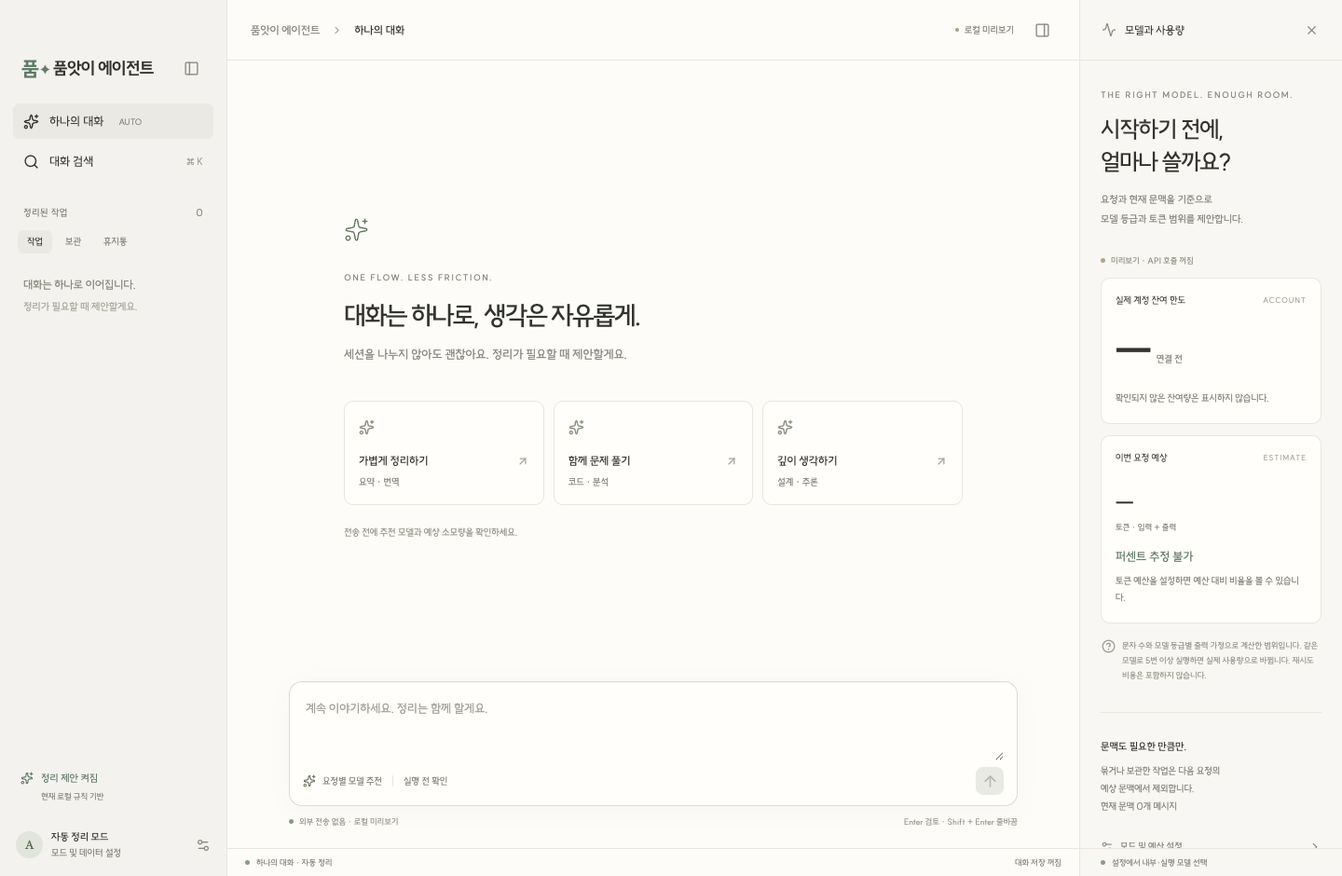
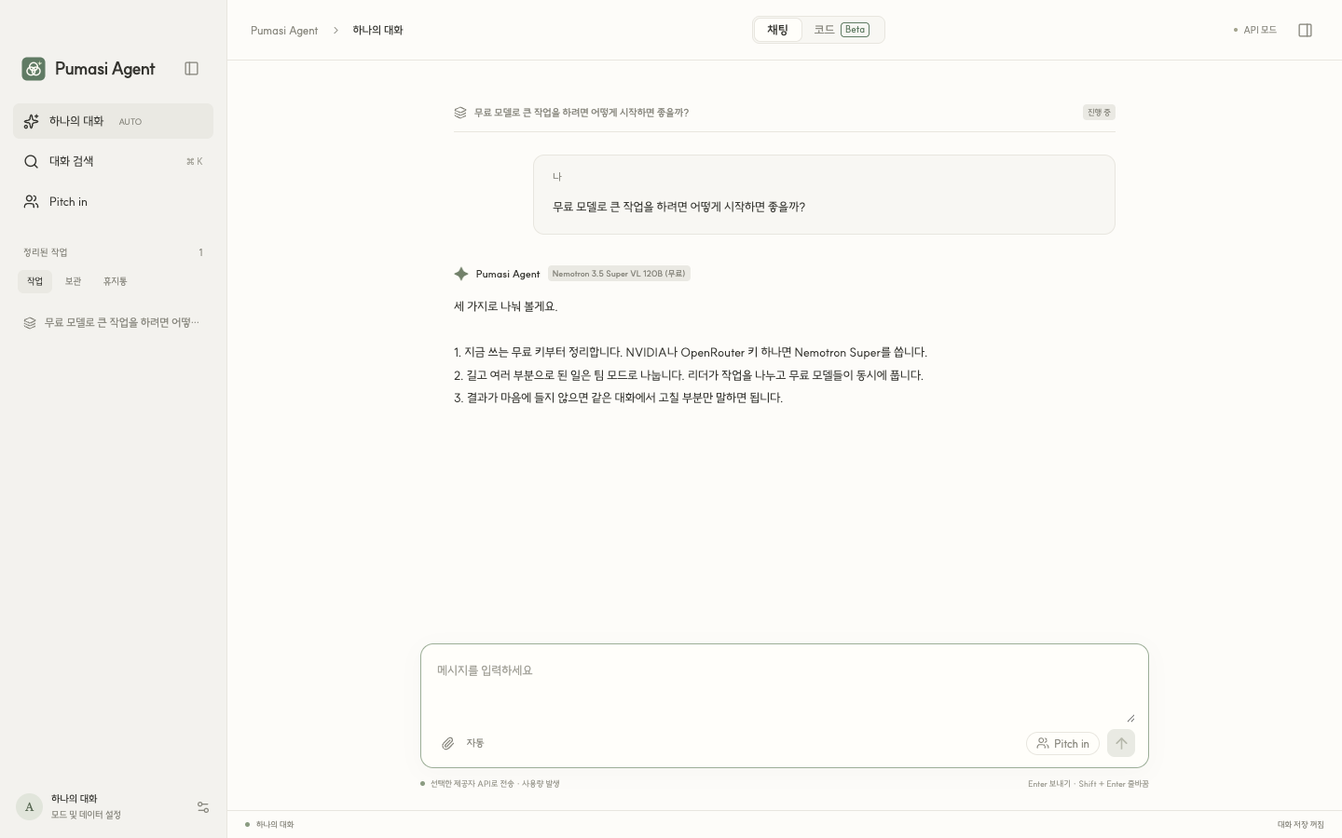
Use the English names everywhere; one download link through yatko
Pumasi Agent and Pitch in replace the Korean names in the app, site, READMEs
and docs (sentences stay Korean). The sidebar mark is now the app icon instead
of the Korean letter, and the social preview and README screenshots are
redrawn from the current app.

The download button goes through yatko.app, which serves the latest GitHub
release; public/download.js picks this computer's installer (Safari cannot
tell Apple Silicon from Intel, so a Mac it cannot ask defaults to Apple
Silicon). Every version stays one click away on GitHub releases.

diff --git a/src/main.tsx b/src/main.tsx
@@ -452,7 +452,7 @@ function App() {
         }
         if (e.stage === "pumasi") {
           setNotice(
-            t("팀 모드 · 품앗이 {done}/{total} 완료 · 돕는 중 {working} · 기다리는 자리 {open}", e),
+            t("팀 모드 · Pitch in {done}/{total} 완료 · 돕는 중 {working} · 기다리는 자리 {open}", e),
           );
           return;
         }
@@ -506,7 +506,7 @@ function App() {
               taskCount: team.tasks.length,
               rounds: team.rounds,
               pumasi: team.pumasiTasks
-                ? t(" · 품앗이로 받은 작업 {count}개", { count: team.pumasiTasks })
+                ? t(" · Pitch in으로 받은 작업 {count}개", { count: team.pumasiTasks })
                 : "",
               approved:
                 (team.approved ? t(" · 총괄 모델 승인") : "") +
@@ -718,9 +718,16 @@ function App() {
       <aside className="sidebar" aria-label={t("사이드바")}>
         <div className="window-space" />
         <div className="brand">
-          <span className="brand-mark">
-            품<span>✦</span>
-          </span>
+          {/* The app icon: three overlapping circles and a spark. */}
+          <svg className="brand-mark" viewBox="0 0 1024 1024" aria-hidden="true">
+            <rect x="18" y="18" width="988" height="988" rx="222" fill="currentColor" />
+            <g fill="none" stroke="#fffdf6" strokeWidth="58">
+              <circle cx="404" cy="604" r="168" />
+              <circle cx="620" cy="604" r="168" />
+              <circle cx="512" cy="418" r="168" />
+            </g>
+            <path d="M776 178l25 70 70 25-70 25-25 70-25-70-70-25 70-25z" fill="#e2ebcf" />
+          </svg>
           <strong>{appName()}</strong>
           <button
             className="icon-button"
@@ -766,11 +773,11 @@ function App() {
           </button>
           <button
             className="nav-item"
-            aria-label={t("함께하기")}
+            aria-label={t("Pitch in")}
             onClick={() => setDialog("pumasi")}
           >
             <Users size={17} />
-            <span>{t("함께하기")}</span>
+            <span>{t("Pitch in")}</span>
           </button>
         </nav>
         {appMode === "chat" && (
@@ -1055,7 +1062,7 @@ function App() {
                 title={
                   window.auroraAI?.pumasi
                     ? t("켜면 팀 모드로 실행하고, 리더가 나눈 작업을 다른 사람 앱이 먼저 맡습니다.")
-                    : t("함께하기는 설치 앱에서 쓸 수 있습니다.")
+                    : t("Pitch in은 설치 앱에서 쓸 수 있습니다.")
                 }
                 onClick={() =>
                   setRouting((r) =>
@@ -1066,7 +1073,7 @@ function App() {
                 }
               >
                 <Users size={14} />
-                {t("함께하기")}
+                {t("Pitch in")}
               </button>
               <button
                 className="send-button"
@@ -1197,7 +1204,7 @@ function App() {
                 {dialog === "search"
                     ? t("대화 검색")
                     : dialog === "pumasi"
-                      ? t("함께하기")
+                      ? t("Pitch in")
                       : t("워크스페이스 설정")}
               </h2>
               <button
@@ -1400,14 +1407,14 @@ function App() {
                   </label>
                   <label className="setting-row">
                     <span>
-                      <strong>{t("품앗이에 맡기기")}</strong>
+                      <strong>{t("Pitch in에 맡기기")}</strong>
                       <small>
                         {t("팀 모드의 작업을 다른 사람의 앱이 그 사람의 키로 처리합니다. 5분 안에 아무도 돕지 않은 작업은 내 작업 모델이 합니다. 작업 글은 모르는 사람의 AI가 읽으니 개인 정보는 넣지 마세요.")}
                       </small>
                     </span>
                     <input
                       type="checkbox"
-                      aria-label={t("품앗이에 맡기기")}
+                      aria-label={t("Pitch in에 맡기기")}
                       checked={routing.pumasi}
                       disabled={!routing.team}
                       onChange={(e) =>

diff --git a/src/pumasi.tsx b/src/pumasi.tsx
@@ -57,7 +57,7 @@ export function PumasiPanel() {
   if (!bridge) {
     return (
       <p className="small-copy">
-        {t("품앗이는 데스크톱 앱에서만 쓸 수 있습니다.")}
+        {t("Pitch in은 데스크톱 앱에서만 쓸 수 있습니다.")}
       </p>
     );
   }
@@ -138,10 +138,10 @@ export function PumasiPanel() {
   };
 
   return (
-    <section className="secret-settings pumasi-panel" aria-label={t("품앗이")}>
+    <section className="secret-settings pumasi-panel" aria-label={t("Pitch in")}>
       <p className="small-copy">
         {t(
-          "함께하기를 누르면 내 앱이 다른 사람 팀의 작업 모델 한 명이 되어, 내 키와 토큰으로 작업 하나를 처리하고 결과만 넘깁니다. 작업 글과 결과는 암호화되어 이 화면에도 보이지 않습니다.",
+          "Pitch in을 누르면 내 앱이 다른 사람 팀의 작업 모델 한 명이 되어, 내 키와 토큰으로 작업 하나를 처리하고 결과만 넘깁니다. 작업 글과 결과는 암호화되어 이 화면에도 보이지 않습니다.",
         )}
       </p>
 
@@ -188,7 +188,7 @@ export function PumasiPanel() {
                     disabled={helping}
                     onClick={() => handleHelp(slot.slotId)}
                   >
-                    {t("함께하기")}
+                    {t("Pitch in")}
                   </button>
                 </div>
               </div>
@@ -273,7 +273,7 @@ export function PumasiPanel() {
 
       <div className="secret-row">
         <label className="secret-head" htmlFor="pumasi-server">
-          <strong>{t("품앗이 서버")}</strong>
+          <strong>{t("Pitch in 서버")}</strong>
         </label>
         <div className="secret-form">
           <input

diff --git a/public/download.js b/public/download.js
@@ -1,0 +1,21 @@
+// One download button: pick this computer's installer and get it through yatko.app, which always
+// serves the latest release from GitHub. Without this script the button opens yatko's own page,
+// which detects the platform itself.
+(async () => {
+  const base = "https://yatko.app/dl/uiwwsw/pumasi-agent";
+  const ua = navigator.userAgent;
+  let href = null;
+  if (/Windows/.test(ua)) href = `${base}?platform=windows&arch=amd64`;
+  else if (/Macintosh|Mac OS X/.test(ua) && !/iPhone|iPad/.test(ua)) {
+    // Safari reports "Intel" on every Mac, so ask the browser when it can tell; otherwise assume
+    // Apple Silicon, which nearly every Mac sold since 2021 has.
+    let arch = "arm64";
+    try {
+      const info = await navigator.userAgentData?.getHighEntropyValues?.(["architecture"]);
+      if (info?.architecture === "x86") arch = "amd64";
+    } catch {}
+    href = `${base}?platform=macos&arch=${arch}&prefer=dmg`;
+  }
+  if (!href) return;
+  for (const a of document.querySelectorAll("a[data-download]")) a.href = href;
+})();

diff --git a/src/code-view.tsx b/src/code-view.tsx
@@ -507,10 +507,10 @@ export function CodeWorkspace() {
                   type="button"
                   className="together-toggle"
                   disabled
-                  title={t("코드 모드에서는 아직 함께하기를 쓸 수 없습니다.")}
+                  title={t("코드 모드에서는 아직 Pitch in을 쓸 수 없습니다.")}
                 >
                   <Users size={14} />
-                  {t("함께하기")}
+                  {t("Pitch in")}
                 </button>
                 {busy ? (
                   <button className="send-button" aria-label={t("중지")} onClick={() => void code.stop()}>

diff --git a/index.html b/index.html
@@ -4,7 +4,7 @@
 <meta charset="UTF-8" />
 <meta name="viewport" content="width=device-width, initial-scale=1" />
 <meta http-equiv="Content-Security-Policy" content="default-src 'self'; script-src 'self'; style-src 'self' 'unsafe-inline'; img-src 'self' data:; connect-src 'none'; object-src 'none'; base-uri 'none'; form-action 'none'" />
-<title>품앗이 에이전트</title>
+<title>Pumasi Agent</title>
 </head>
 <body><div id="root"></div><script type="module" src="/src/main.tsx"></script>
 </body>

diff --git a/src/i18n.ts b/src/i18n.ts
@@ -46,7 +46,7 @@ export function t(ko: string, vars?: Record<string, string | number>) {
     ? s.replace(/\{(\w+)\}/g, (m, k) => (k in vars ? String(vars[k]) : m))
     : s;
 }
-export const appName = () => (lang === "en" ? "Pumasi Agent" : "품앗이 에이전트");
+export const appName = () => (lang === "en" ? "Pumasi Agent" : "Pumasi Agent");
 
 /** Model names from the catalog in the current language: "(무료)" -> "(free)" and so on. */
 export function modelName(name: string) {

diff --git a/src/style.css b/src/style.css
@@ -114,18 +114,9 @@ button:hover {
   letter-spacing: -0.6px;
 }
 .brand-mark {
-  position: relative;
-  font-size: 22px;
-  font-weight: 700;
-  line-height: 28px;
-  width: 24px;
-  color: var(--accent);
-}
-.brand-mark span {
-  position: absolute;
-  font-size: 13px;
-  right: -6px;
-  top: 0;
+  width: 26px;
+  height: 26px;
+  flex-shrink: 0;
   color: var(--accent);
 }
 .brand > .icon-button {

diff --git a/README.ko.md b/README.ko.md
@@ -2,7 +2,7 @@
 
 <img src="https://raw.githubusercontent.com/uiwwsw/pumasi-agent/main/build/icon.svg" alt="Pumasi Agent" width="96" height="96">
 
-<h1>품앗이 에이전트 · Pumasi Agent</h1>
+<h1>Pumasi Agent</h1>
 
 <p><b>무료 AI가 팀으로 일합니다.</b><br>리더 모델이 일을 나누고 무료 모델이 처리합니다. 손이 더 필요하면 다른 사용자가 거들어 줍니다.</p>
 
@@ -29,7 +29,7 @@
 
 - **채팅과 코드, 두 모드:** 채팅은 질문과 답입니다. 코드는 Claude Code나 Codex처럼 씁니다. 프로젝트 폴더를 열고 할 일을 적으면 에이전트가 폴더를 둘러보고 파일을 직접 읽고 찾은 뒤, 고칠 내용을 diff로 보여 주고 명령을 실행하기 전에 묻습니다. 승인하기 전에는 아무것도 저장하거나 실행하지 않습니다. 코드 모드는 베타입니다.
 - **일은 나누고, 돈은 아낍니다 (팀 모드):** 요청 하나를 작업 최대 6개로 나눕니다. 리더 모델이 계획하고 승인하며, 작업과 합치기는 무료 모델이 합니다. 기본 리더는 측정 성적이 가장 높은 무료 모델입니다. 한도에 걸리면 다음 순위가 이어받고, 순서는 설정에서 바꿀 수 있습니다. 리더가 결과를 확신하지 못할 때만 2등이 한 번 더 보고, 그 밖에는 호출이 늘지 않습니다. Claude Opus 같은 유료 모델을 리더로 고르면 비싼 토큰은 계획과 승인에만 씁니다.
-- **문제를 나눕니다 (함께하기):** 내 팀의 작업을 다른 사용자에게 맡길 수 있습니다. 그 사람의 앱이 작업 하나를 자기 무료 키로 처리하고 결과만 돌려줍니다. 작업 글과 결과는 두 기기 사이에서만 풀리게 암호화되어, 서버는 암호문만 나르고 돕는 사람의 화면에는 토큰 수만 보입니다. 누구의 키도 기기를 떠나지 않습니다. 도우면 점수가 쌓이고, 맡기면 점수를 씁니다. 지금은 초대 코드를 받은 사람만 가입할 수 있습니다.
+- **문제를 나눕니다 (Pitch in):** 내 팀의 작업을 다른 사용자에게 맡길 수 있습니다. 그 사람의 앱이 작업 하나를 자기 무료 키로 처리하고 결과만 돌려줍니다. 작업 글과 결과는 두 기기 사이에서만 풀리게 암호화되어, 서버는 암호문만 나르고 돕는 사람의 화면에는 토큰 수만 보입니다. 누구의 키도 기기를 떠나지 않습니다. 도우면 점수가 쌓이고, 맡기면 점수를 씁니다. 지금은 초대 코드를 받은 사람만 가입할 수 있습니다.
 - **무료 모델도 충분히 셉니다:** 여기서 쓸 수 있는 무료 모델 Nemotron 3.5 Super가 프로그램이 채점하는 시험 세 개에서 30/30, 28/30, 23/25를 받았습니다. ChatGPT 무료는 23, 24, 13.4였습니다. 문항·답안·채점기는 [측정 기록](bench/README.md)에 있습니다.
 - **키만 넣고 질문하면 됩니다:** 설정에 NVIDIA·OpenRouter·Groq·Google(무료)과 OpenAI·Anthropic(유료) 키를 한 번 넣어 두세요. Enter를 누르면 자동이 답합니다. 쓸 수 있는 무료 모델 중 성적이 높은 것부터 쓰고, 한도에 걸리거나 멈추면 다음 모델로 넘어가며, 무료가 모두 막혔을 때만 유료 키를 씁니다. 모델을 고르거나 확인하는 단계는 없습니다. 원하면 설정 → 고급에서 모델을 정할 수 있습니다.
 - **키는 내 기기에만:** 설정에서 넣은 API 키는 OS 키체인으로 암호화해 저장하고, 다시 화면에 보여 주지 않으며, 모델 답과 오류 메시지에서도 가립니다.
@@ -40,19 +40,19 @@
 - 한국어·영어 화면, macOS(서명·공증)·Windows 설치 파일, 자동 업데이트
 - 업데이트 채널: 안정·베타·알파 (도움말 → 업데이트 채널)
 
-## 함께하기의 생각
+## Pitch in의 생각
 
 토큰을 나눠 쓰자는 프로젝트는 대부분 키나 크레딧을 한곳에 모아 나눠 줍니다. 모아 둔 곳을 운영하는 쪽이 모든 요청의 한가운데에 있게 되고, 함께 쓰는 키는 오남용되기 쉽습니다.
 
-함께하기는 거꾸로 갑니다. 토큰 대신 문제를 공유합니다. 돕고 싶은 사람이 그 문제를 가져가 자기 도구로 풀고, 결과를 돌려줍니다. 키와 크레딧은 주인 손을 떠나지 않고, 가운데에서 오남용될 곳도 없습니다.
+Pitch in은 거꾸로 갑니다. 토큰 대신 문제를 공유합니다. 돕고 싶은 사람이 그 문제를 가져가 자기 도구로 풀고, 결과를 돌려줍니다. 키와 크레딧은 주인 손을 떠나지 않고, 가운데에서 오남용될 곳도 없습니다.
 
 지금 앱에는 첫 조각만 있습니다. 다른 사용자의 앱이 내 팀의 작업 하나를 자기 무료 키로 처리하고, 작업과 결과는 두 기기 사이에서만 풀립니다. 사람이 리더가 나눠 준 역할을 맡아 원하는 답이 나올 때까지 다듬고 넘기는 모습은 아직 아이디어이고 구현하지 않았습니다. 함께 만들 기여자를 모읍니다. 지금 만든 부분과 남은 문제는 [docs/pitch-in.md](docs/pitch-in.md)(영문)에 정리했습니다. 하나를 골라 이슈로 이야기를 걸어 주세요.
 
 ## 한계
 
-- 코드 모드는 베타입니다. 한 번에 폴더 하나, 명령 하나는 2분까지이고, 코드 모드에서는 아직 함께하기를 쓸 수 없습니다.
+- 코드 모드는 베타입니다. 한 번에 폴더 하나, 명령 하나는 2분까지이고, 코드 모드에서는 아직 Pitch in을 쓸 수 없습니다.
 - 리더 순위는 지금 추론 시험 하나로 정했습니다. 코드와 글쓰기 순위는 따로 측정한 뒤 나눕니다.
-- 함께하기는 미리보기 기간 동안 초대제입니다.
+- Pitch in은 미리보기 기간 동안 초대제입니다.
 
 ## 할 일
 
@@ -61,20 +61,14 @@
 1. **토큰을 낭비하지 않는 팀:** 어려운 6문제에서 팀은 3개를 맞혀 Nemotron Super 혼자(0개)보다 낫지만 토큰을 약 50배 씁니다. 나눠도 나아지지 않을 요청은 바로 답하고, 결과를 바꾸지 못하는 검토 회차를 줄이고, 작업 모델이 생각하는 길이에 상한을 둡니다. 같거나 적은 토큰으로 Super 혼자보다 나을 때만 안정 버전에 넣습니다.
 2. **스트리밍 응답:** 채팅과 코드 모드 모두 끝났습니다.
 3. **Claude Code·Codex에 더 가까운 코드 모드:** 저장한 변경 되돌리기, git 변경 사항 보기, 한 요청의 파일 변경 모두 저장이 들어갔습니다. 다음은 모델의 정식 도구 호출입니다. 무료 모델에서 지금 방식보다 나을 때만 바꿉니다.
-4. **사람이 함께하는 함께하기:** 사람이 리더가 나눈 역할을 맡아 원하는 답이 나올 때까지 다듬고 넘깁니다. 엉터리 결과 신고·차단과 공개 가입도 함께.
-5. **코드 모드 함께하기.** 텍스트 파일 첨부는 들어갔습니다. 묶음 투표(여러 모델이 답하고 투표)는 없앴습니다. Nemotron Super 혼자보다 점수가 높았던 적이 없고 토큰은 몇 배 들었습니다.
+4. **사람이 함께하는 Pitch in:** 사람이 리더가 나눈 역할을 맡아 원하는 답이 나올 때까지 다듬고 넘깁니다. 엉터리 결과 신고·차단과 공개 가입도 함께.
+5. **코드 모드 Pitch in.** 텍스트 파일 첨부는 들어갔습니다. 묶음 투표(여러 모델이 답하고 투표)는 없앴습니다. Nemotron Super 혼자보다 점수가 높았던 적이 없고 토큰은 몇 배 들었습니다.
 
 ## 쓰기
 
-**웹:** [pumasi-agent.vercel.app/app](https://pumasi-agent.vercel.app/app/)에서 바로 씁니다. 채팅과 팀 모드를 내 키로 씁니다. 키는 그 브라우저에만 저장되고, 질문은 브라우저에서 각 회사로 바로 갑니다. 우리 서버는 거치지 않습니다. NVIDIA는 브라우저 호출을 막아서, 웹에서는 Nemotron 모델을 OpenRouter 키로 씁니다. 코드 모드와 함께하기는 설치 앱에서 씁니다.
+**웹:** [pumasi-agent.vercel.app/app](https://pumasi-agent.vercel.app/app/)에서 바로 씁니다. 채팅과 팀 모드를 내 키로 씁니다. 키는 그 브라우저에만 저장되고, 질문은 브라우저에서 각 회사로 바로 갑니다. 우리 서버는 거치지 않습니다. NVIDIA는 브라우저 호출을 막아서, 웹에서는 Nemotron 모델을 OpenRouter 키로 씁니다. 코드 모드와 Pitch in은 설치 앱에서 씁니다.
 
-**설치 앱:**
-
-| 운영체제 | 설치 파일 |
-| --- | --- |
-| macOS · Apple Silicon | [DMG](https://github.com/uiwwsw/pumasi-agent/releases/download/v0.1.10/Pumasi-Agent-0.1.10-mac-arm64.dmg) |
-| macOS · Intel | [DMG](https://github.com/uiwwsw/pumasi-agent/releases/download/v0.1.10/Pumasi-Agent-0.1.10-mac-x64.dmg) |
-| Windows · x64 | [EXE](https://github.com/uiwwsw/pumasi-agent/releases/download/v0.1.10/Pumasi-Agent-0.1.10-windows-x64.exe) |
+**설치 앱 (macOS, Windows):** [yatko.app/uiwwsw/pumasi-agent](https://yatko.app/uiwwsw/pumasi-agent)에서 내 컴퓨터에 맞는 설치 파일을 최신 버전으로 받습니다. 모든 버전과 파일은 [릴리스 페이지](https://github.com/uiwwsw/pumasi-agent/releases)에 있습니다.
 
 새 기능을 먼저 받는 베타 버전은 [릴리스 페이지](https://github.com/uiwwsw/pumasi-agent/releases)에 있습니다. 설치한 앱에서는 도움말 → 업데이트 채널에서 바꿉니다.
 

diff --git a/CHANGELOG.md b/CHANGELOG.md
@@ -2,17 +2,17 @@
 
 ## Unreleased
 
-- **웹에서도 씁니다:** pumasi-agent.vercel.app/app 에서 채팅과 팀 모드를 실제로 씁니다. 그동안 있던 "웹 데모"(AI를 부르지 않는 미리보기)는 없앴습니다. 키는 그 브라우저에만 저장되고, 질문은 브라우저에서 각 AI 회사로 바로 갑니다. 우리 서버는 거치지 않습니다. NVIDIA는 브라우저 호출을 막아서 웹에서는 Nemotron을 OpenRouter 키로 씁니다. 코드 모드와 함께하기는 설치 앱에서만 됩니다.
+- **웹에서도 씁니다:** pumasi-agent.vercel.app/app 에서 채팅과 팀 모드를 실제로 씁니다. 그동안 있던 "웹 데모"(AI를 부르지 않는 미리보기)는 없앴습니다. 키는 그 브라우저에만 저장되고, 질문은 브라우저에서 각 AI 회사로 바로 갑니다. 우리 서버는 거치지 않습니다. NVIDIA는 브라우저 호출을 막아서 웹에서는 Nemotron을 OpenRouter 키로 씁니다. 코드 모드와 Pitch in은 설치 앱에서만 됩니다.
 - **파일 첨부:** 입력창의 클립 버튼이나 끌어다 놓기로 텍스트 파일(코드, 문서, 로그, CSV 등)을 붙입니다. 모델은 내용을 읽고, 대화에는 파일 이름만 보입니다. 다음 질문에도 그 내용이 문맥으로 이어집니다. 파일 하나는 20만 자, 한 질문에 모두 합쳐 40만 자까지이고, 이미지·PDF 같은 바이너리 파일은 붙지 않습니다.
 - **묶음 투표를 없앴습니다:** 같은 질문을 여러 모델에 묻고 투표하는 방식은 측정에서 Nemotron Super 혼자보다 점수가 높았던 적이 없고 토큰은 몇 배 들었습니다. 설정에서도 빠졌습니다. 측정한 모델 점수는 자동 모델과 리더 순위에 계속 씁니다.
 - **코드 모드:** 에이전트의 답이 쓰이는 대로 보입니다. 저장한 파일 변경마다 "되돌리기"가 있습니다. 저장한 뒤 파일이 또 바뀌었으면 되돌리지 않습니다. 위쪽 "변경 사항"에서 git이 보는 바뀐 파일과 diff를 봅니다. 변경 카드의 "이번 요청 모두 저장"을 누르면 그 요청의 나머지 파일 변경은 묻지 않고 저장합니다. 명령은 계속 묻습니다.
 - **답이 쓰이는 대로 보입니다:** 채팅의 일반 답이 스트리밍으로 옵니다. OpenAI, Anthropic, 무료 제공자(OpenAI 호환), Gemini, Ollama 모두 해당합니다. 보내면 질문이 바로 대화로 옮겨지고 입력창이 비며, 실패하면 질문이 입력창으로 돌아옵니다. 팀 모드와 묶음 투표는 아직 다 끝난 뒤에 보입니다.
-- **키만 넣고 질문하면 됩니다:** Enter를 누르면 확인 창 없이 바로 답합니다. 기본 모델은 "자동"입니다. 무료 모델부터 쓰고, 무료가 모두 막히면 설정에 넣어 둔 유료 키(Claude Sonnet, GPT)를 씁니다. 함께하기로 남을 도울 때와 팀 리더는 유료 키를 쓰지 않습니다.
+- **키만 넣고 질문하면 됩니다:** Enter를 누르면 확인 창 없이 바로 답합니다. 기본 모델은 "자동"입니다. 무료 모델부터 쓰고, 무료가 모두 막히면 설정에 넣어 둔 유료 키(Claude Sonnet, GPT)를 씁니다. Pitch in으로 남을 도울 때와 팀 리더는 유료 키를 쓰지 않습니다.
 - 설정은 API 키가 맨 위에 옵니다. 모델과 팀 설정은 "고급"으로 접었고, "실제 API 사용" 스위치와 OpenAI·Claude 기본값 버튼, 내부 분석 모델은 없앴습니다. 설치한 앱은 늘 실제 모델을 부르고, 웹 데모는 부르지 않습니다.
 - 키워드로 주제가 바뀌었다고 짐작해 정리를 제안하던 기능을 없앴습니다. "자동 정리 모드"는 "하나의 대화", "레거시"는 "세션 모드"로 부릅니다.
 - 답 아래 붙던 토큰 줄을 없애고, 답에 실제로 답한 모델 이름을 표시합니다. 토큰은 사용량 패널에서 봅니다.
 - 보내기 전에 보여 주던 예상 토큰, 예산 대비 비율, 키워드로 고른 "추천 등급"을 없앴습니다. 짐작한 숫자였기 때문입니다. 계획용 토큰 예산 설정과 이 기기에 남기던 사용 기록도 함께 없앴습니다. 답을 받으면 제공자가 알려 준 실제 토큰만 보여 줍니다.
-- README와 사이트에 함께하기의 생각을 적었습니다. 토큰을 한곳에 모으는 대신 문제를 공유하고, 돕는 사람이 스스로 푼 결과를 돌려받는 구조입니다. 사람이 역할을 맡는 부분은 아직 구현하지 않았고 기여자를 모읍니다.
+- README와 사이트에 Pitch in의 생각을 적었습니다. 토큰을 한곳에 모으는 대신 문제를 공유하고, 돕는 사람이 스스로 푼 결과를 돌려받는 구조입니다. 사람이 역할을 맡는 부분은 아직 구현하지 않았고 기여자를 모읍니다.
 
 ## 0.2.0-beta.2 (베타)
 

diff --git a/docs/components.md b/docs/components.md
@@ -4,7 +4,7 @@ Pumasi Agent 저장소에 들어 있는 파일, 의존하는 라이브러리와 
 
 먼저 범위를 분명히 해 둔다.
 
-- 품앗이 에이전트는 새로운 라우팅 알고리즘을 만들지 않았다. 앱 안의 "추천"은 분석용 모델에게 어떤 모델이 좋을지 물어보는 프롬프트 한 번이고, 실행 모델은 사람이 고른다.
+- Pumasi Agent는 새로운 라우팅 알고리즘을 만들지 않았다. 앱 안의 "추천"은 분석용 모델에게 어떤 모델이 좋을지 물어보는 프롬프트 한 번이고, 실행 모델은 사람이 고른다.
 - 팀 모드의 총괄 모델 기본값은 Claude Opus 5.5(OpenAI 프리셋에서는 GPT-6 Astra)로, 유료 API 키가 필요하다. 무료로 돌아가는 쪽은 작업 모델(Gemini Flash 무료 한도, Ollama 로컬)뿐이다. 총괄 모델에 무료 모델을 고를 수는 있지만 그 조합은 측정하지 않았다.
 - `bench/`는 측정 기록이다. 묶음 투표는 0.1.6~0.2.0-beta.2에 있었고, Super 혼자보다 낫지 않아 이후 없앴다. 측정한 모델 점수(`src/ensemble-weights.json`)는 자동 모델과 리더 순위에 계속 쓴다.
 
@@ -88,12 +88,12 @@ pumasi-agent/
 
 ## 빌려 온 아이디어
 
-품앗이 에이전트의 구조는 이미 알려진 방식들을 가져와 작게 붙인 것이다.
+Pumasi Agent의 구조는 이미 알려진 방식들을 가져와 작게 붙인 것이다.
 
 - **팀 모드 (총괄 모델이 나누고 작업 모델이 처리, 총괄 모델이 판정):** Anthropic의 [Building effective agents](https://www.anthropic.com/engineering/building-effective-agents)에 정리된 orchestrator-workers와 evaluator-optimizer 패턴 그대로다.
 - **`bench/`의 "여러 모델이 답하고 하나가 합치기":** Together AI의 [Mixture-of-Agents](https://github.com/togethercomputer/MoA)(2024)와 같은 구조다. 여러 답을 모아 합치는 연구로는 [LLM-Blender](https://github.com/yuchenlin/LLM-Blender)(2023)도 있다.
-- **질문마다 모델 고르기:** 학습된 라우터는 LMSYS의 [RouteLLM](https://github.com/lm-sys/RouteLLM), 서비스로는 [OpenRouter](https://openrouter.ai)의 `openrouter/auto`가 있다. 품앗이 에이전트는 라우터를 학습하지 않았고, 분석 모델에게 묻는 방식이라 이것들보다 단순하다.
-- **여러 제공자를 하나의 주소로:** [LiteLLM](https://github.com/BerriAI/litellm) 같은 게이트웨이가 하는 일이다. 품앗이 에이전트의 `providers.cjs`는 네 제공자만 직접 연결한 작은 어댑터다.
+- **질문마다 모델 고르기:** 학습된 라우터는 LMSYS의 [RouteLLM](https://github.com/lm-sys/RouteLLM), 서비스로는 [OpenRouter](https://openrouter.ai)의 `openrouter/auto`가 있다. Pumasi Agent는 라우터를 학습하지 않았고, 분석 모델에게 묻는 방식이라 이것들보다 단순하다.
+- **여러 제공자를 하나의 주소로:** [LiteLLM](https://github.com/BerriAI/litellm) 같은 게이트웨이가 하는 일이다. Pumasi Agent의 `providers.cjs`는 네 제공자만 직접 연결한 작은 어댑터다.
 - **검색 결과를 붙여 답하기, 다른 모델로 사실 대조:** 일반적인 RAG와 자기 검증(self-verification) 방식이다.
 
 문서 구성은 [nanochat](https://github.com/karpathy/nanochat) README의 파일 구조 설명과 감사의 말 형식을 참고했다.

diff --git a/README.md b/README.md
@@ -76,13 +76,7 @@ Built and shipped one at a time, in this order.
 
 **On the web:** [pumasi-agent.vercel.app/app](https://pumasi-agent.vercel.app/app/). Chat and team mode, with your own keys. Keys are stored in that browser only and your questions go from the browser straight to each provider, never through our server. NVIDIA blocks calls from web pages, so on the web the Nemotron models run through an OpenRouter key. Code mode and Pitch in need the desktop app.
 
-**Desktop:**
-
-| Platform | Installer |
-| --- | --- |
-| macOS · Apple Silicon | [DMG](https://github.com/uiwwsw/pumasi-agent/releases/download/v0.1.10/Pumasi-Agent-0.1.10-mac-arm64.dmg) |
-| macOS · Intel | [DMG](https://github.com/uiwwsw/pumasi-agent/releases/download/v0.1.10/Pumasi-Agent-0.1.10-mac-x64.dmg) |
-| Windows · x64 | [EXE](https://github.com/uiwwsw/pumasi-agent/releases/download/v0.1.10/Pumasi-Agent-0.1.10-windows-x64.exe) |
+**Desktop (macOS, Windows):** [yatko.app/uiwwsw/pumasi-agent](https://yatko.app/uiwwsw/pumasi-agent) picks the installer for your computer from the latest release. Every version and file is on the [releases page](https://github.com/uiwwsw/pumasi-agent/releases).
 
 Beta builds, with new features first, are on the [releases page](https://github.com/uiwwsw/pumasi-agent/releases). An installed app can switch under Help → Update channel.
 
